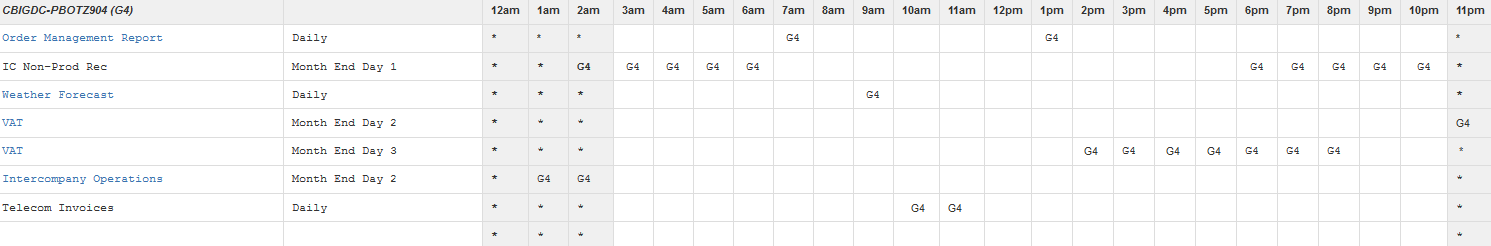
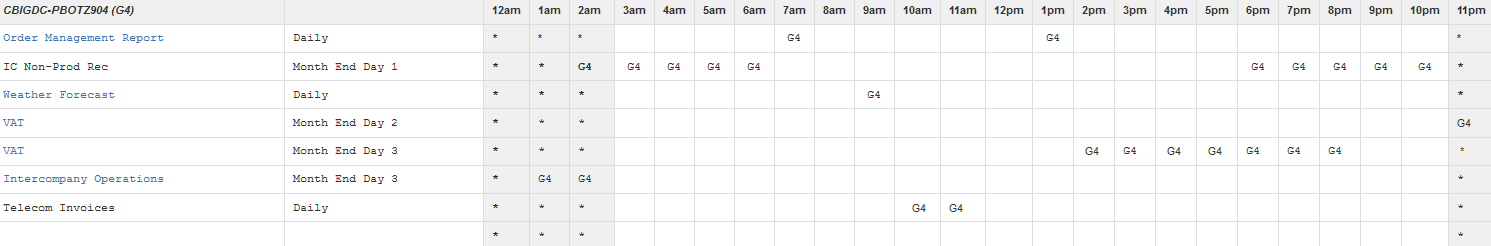
icops sched

diff --git a/js/openBotsSchedule.js b/js/openBotsSchedule.js
@@ -1,5 +1,5 @@
 /* 
- *  LAST UPDATED: 05/01/2019 
+ *  LAST UPDATED: 05/17/2019 
  *
  *  Below schedule is in military time. 
  *	-----------------------------------------------------------
@@ -88,8 +88,8 @@ self.botSched = function botSched(){
 		Thursday:  ["OMR:*7*13*;Weather Forcast:*9*;Telecom Invoices:*10*11*",7,9,10,11,13],
 		Friday:    ["OMR:*7*13*;Weather Forcast:*9*;Telecom Invoices:*10*11*",7,9,10,11,13],
         MEday1:    ["IC Non-Prod Rec",2,3,4,5,6,18,19,20,21,22],
-		MEday2:    ["VAT Setup:*23*;IC Ops:*1*2*",1,2,23],
-		MEday3:    ["VAT Main Job",14,15,16,17,18,19,20]
+		MEday2:    ["VAT Setup",23],
+		MEday3:    ["VAT Main Job:*14*15*16*17*18*19*20*;IC Ops:*1*2*",1,2,14,15,16,17,18,19,20]
 	}
 
 	//CBIGDC_PBOTZ960
